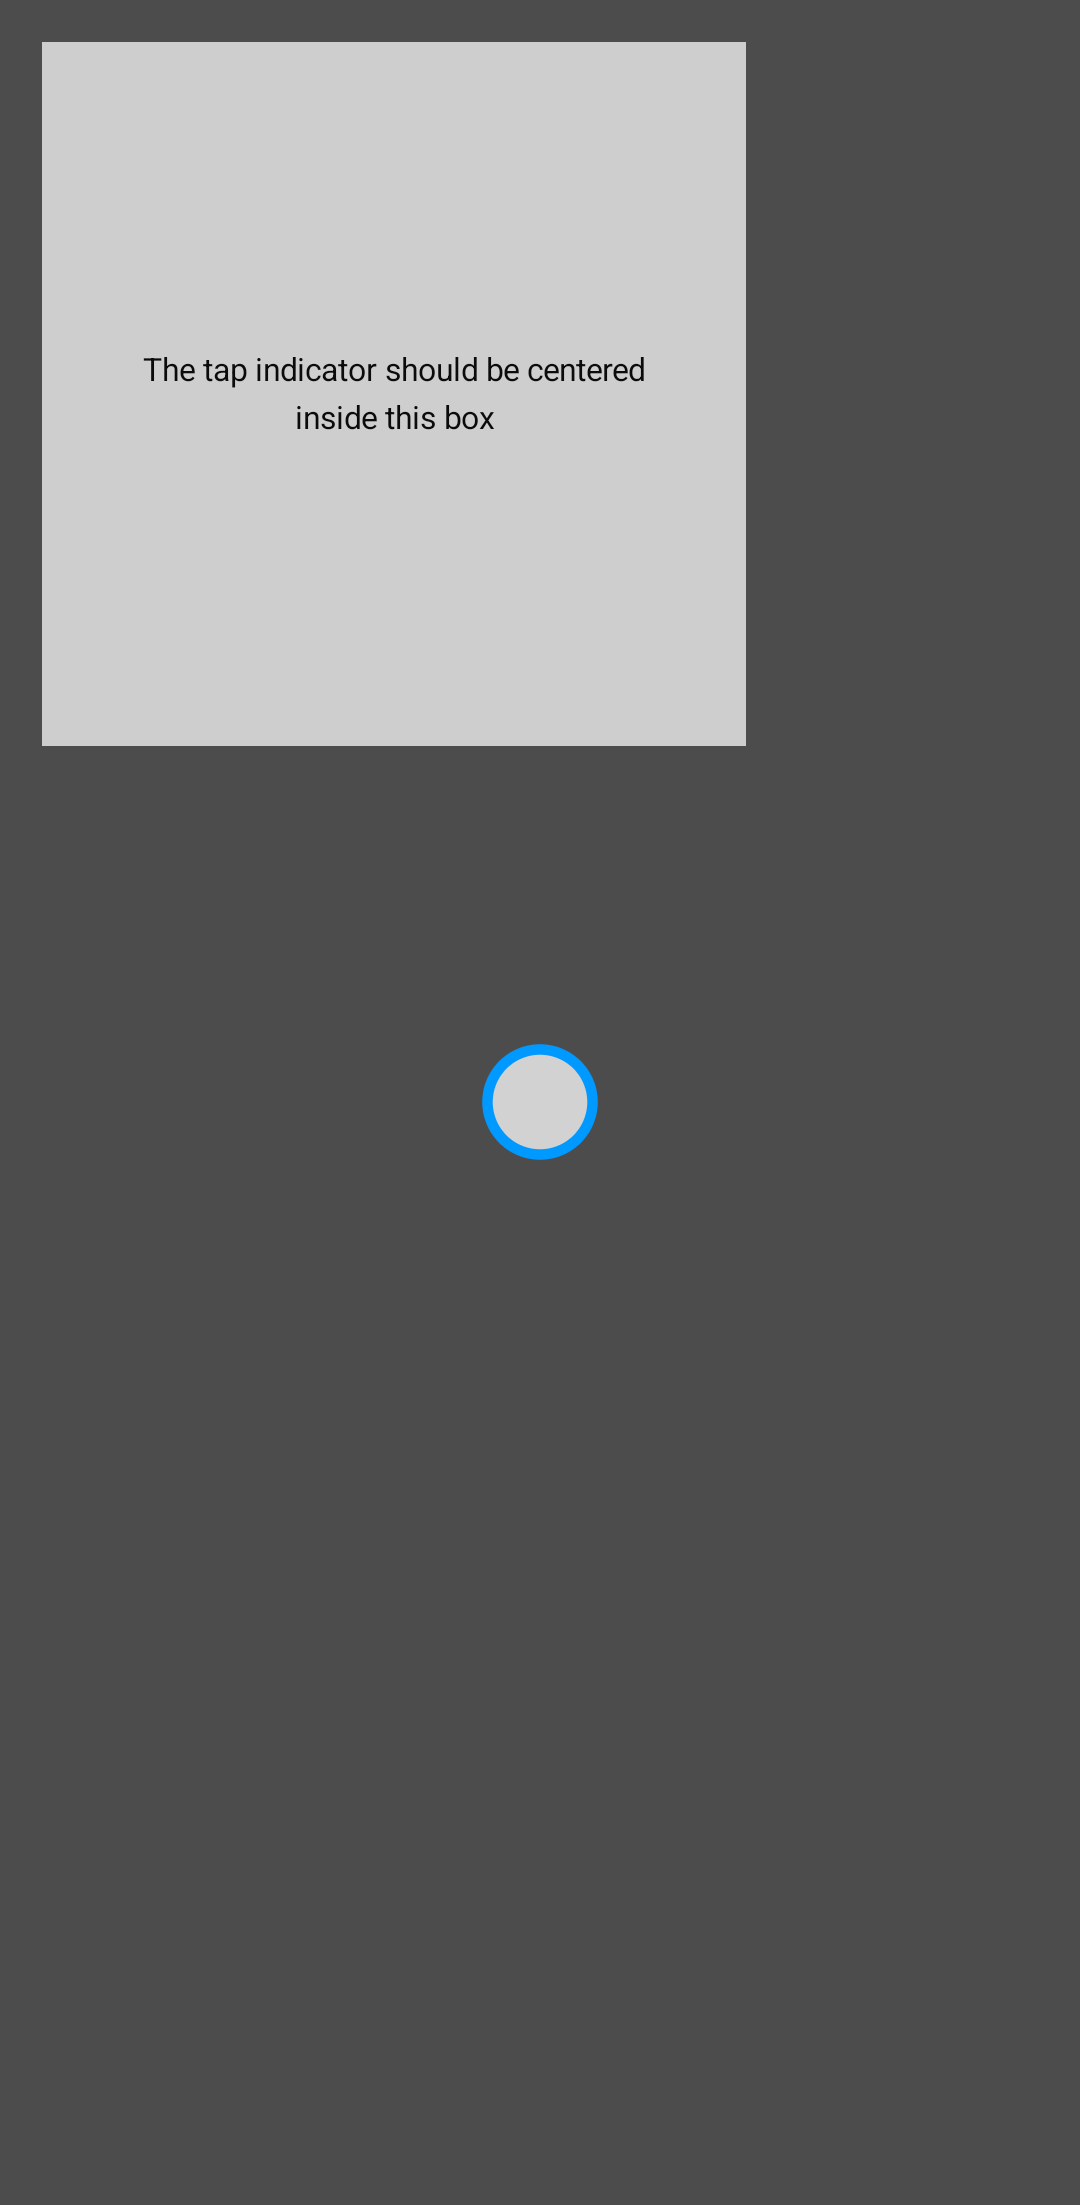
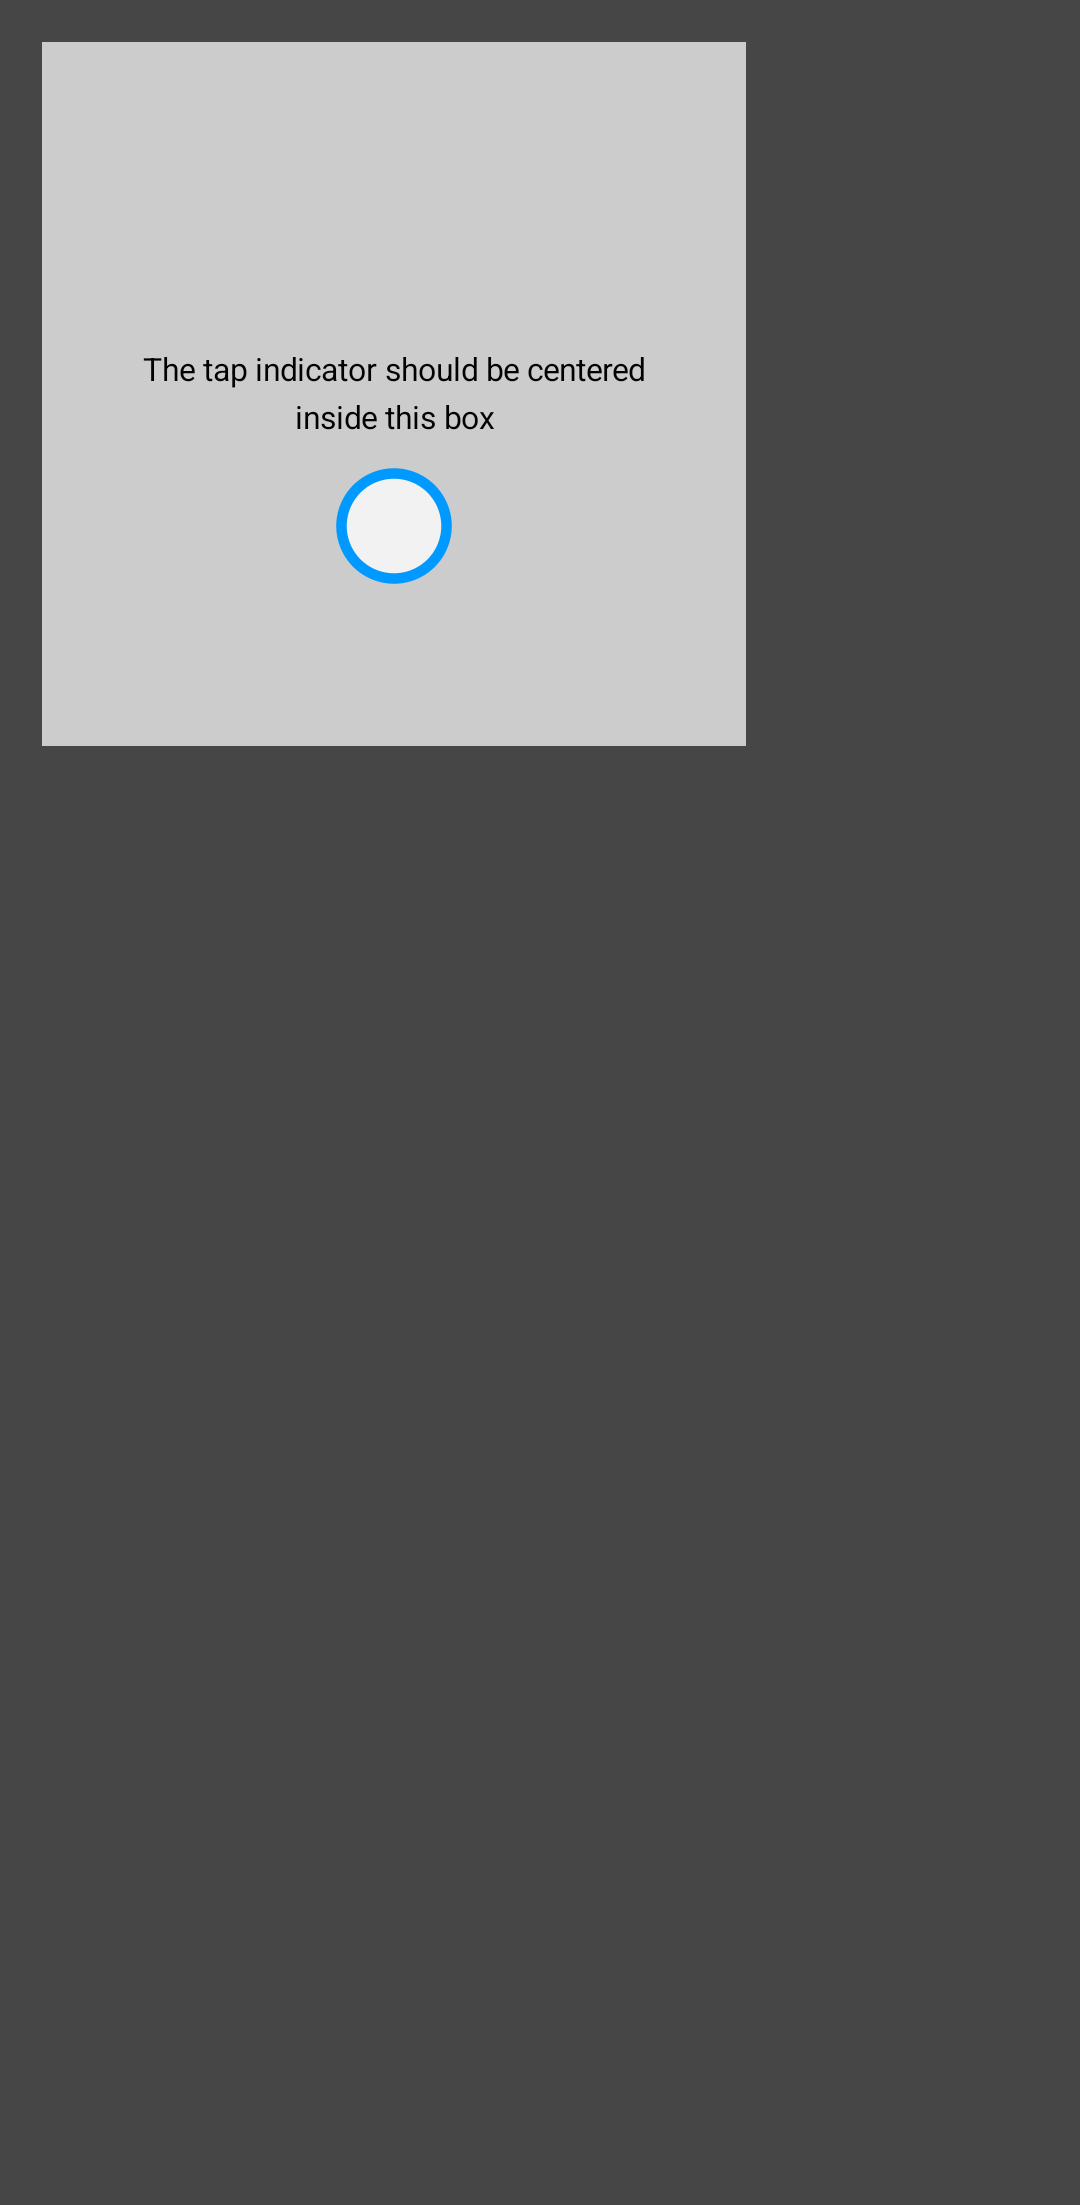
Anchor show-taps overlay window to the host view

Changed region(s): [[0.3056, 0.2159, 0.4278, 0.2776], [0.4278, 0.4626, 0.55, 0.5243]]

diff --git a/touchrobot-core/src/main/kotlin/me/saket/touchrobot/ShowTapsOverlay.kt b/touchrobot-core/src/main/kotlin/me/saket/touchrobot/ShowTapsOverlay.kt
@@ -2,6 +2,7 @@ package me.saket.touchrobot
 
 import android.content.Context
 import android.graphics.PixelFormat
+import android.view.Gravity
 import android.view.MotionEvent
 import android.view.View
 import android.view.View.OnAttachStateChangeListener
@@ -178,16 +179,30 @@ internal fun MatchParentSizePopup(
     }
 
     val windowManager = hostView.context.getSystemService(Context.WINDOW_SERVICE) as WindowManager
+    val hostLocation = IntArray(2)
     val layoutParams = WindowManager.LayoutParams().also {
       it.width = if (hostView.width == 0) ViewGroup.LayoutParams.MATCH_PARENT else hostView.width
       it.height = if (hostView.height == 0) ViewGroup.LayoutParams.WRAP_CONTENT else hostView.height
       it.format = PixelFormat.TRANSLUCENT
+      // Anchor the overlay to the host view. Without an explicit gravity, WindowManager centers
+      // the window on screen, so an overlay smaller than the screen ends up offset from the host
+      // (and from the taps, which are drawn at the host's coordinates). x/y are absolute screen
+      // coordinates, so use LEFT (not START) — START would be mirrored under RTL layouts and
+      // reintroduce the offset.
+      it.gravity = Gravity.TOP or Gravity.LEFT
+      hostView.getLocationOnScreen(hostLocation)
+      it.x = hostLocation[0]
+      it.y = hostLocation[1]
     }
     windowManager.addView(popupLayout, layoutParams)
 
     hostView.doOnEveryLayout {
       layoutParams.width = it.width
       layoutParams.height = it.height
+      // The host can move as well as resize, so refresh its screen position too.
+      it.getLocationOnScreen(hostLocation)
+      layoutParams.x = hostLocation[0]
+      layoutParams.y = hostLocation[1]
       windowManager.updateViewLayout(popupLayout, layoutParams)
     }
 
